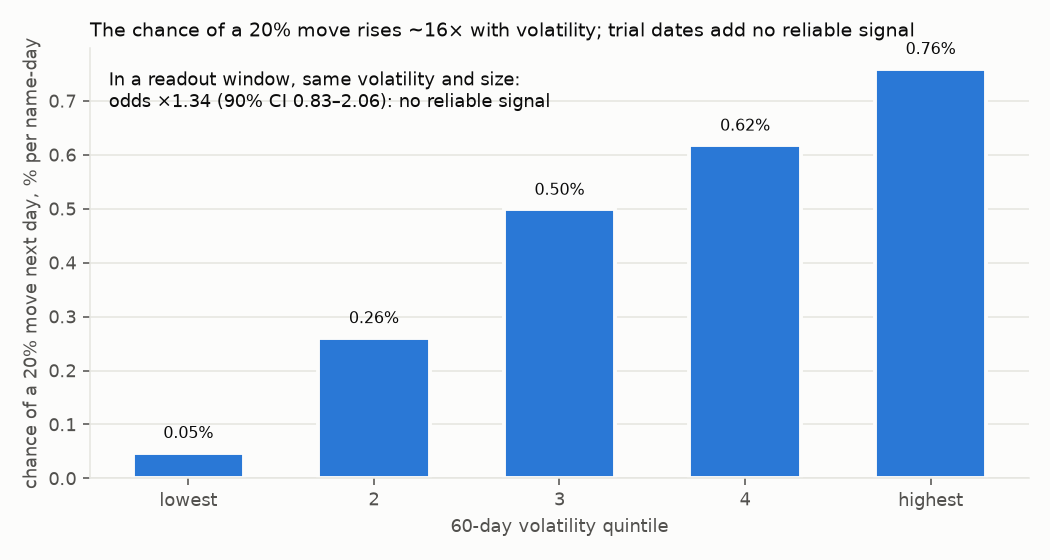
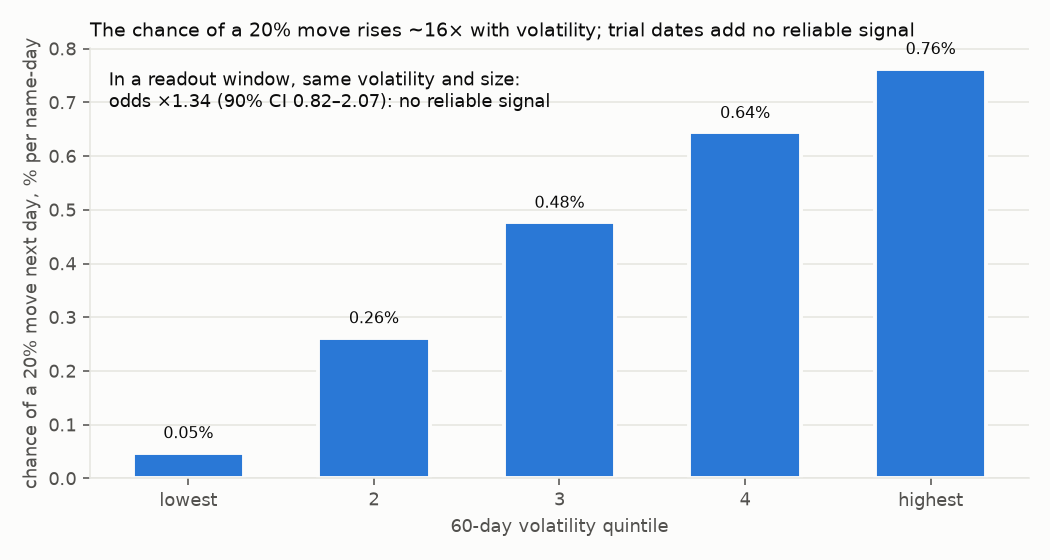
sector forward test: design rev 4 after counter-agent round 2
Round 2 (17 agents): 20/22 round-1 items confirmed addressed, 2 now
completed. Applied: BUILD drops the observed-edge >= DELTA leg (it halved
power to ~49%); one 16:00 New York as-of cutoff in gate and protocol (no
after-hours catalyst look-ahead); spot-check pass/fail (any failure = no
vintage = no gate); K fixed before any gate statistic; multiplicity rule
for several sources; B1x/B2/universe fully specified; R1/R2/H1 defined;
panel de-cluster window off-by-one fixed (OR 1.34, CI 0.82-2.07); H1 vs
jump-robust volatility computed (no edge at any K); desk-use question P1.

Claude-Session: https://claude.ai/code/session_018pBh7Pbpx6hXZasdnfmtby

diff --git a/genomics-alpha-tracker/backend/research/sector_forward/calibrate2.py b/genomics-alpha-tracker/backend/research/sector_forward/calibrate2.py
@@ -162,7 +162,7 @@ def main() -> None:
                 continue
             last_idx = i
             # name-days whose next day falls in (event, event + 10 trading days] leave the panel
-            lo, hi = i, min(len(bd) - 1, i + DECLUSTER - 1)
+            lo, hi = i + 1, min(len(bd) - 1, i + DECLUSTER)   # next day in (event, event + 10]
             if lo < len(bd):
                 quiet[s].append((bd[lo], bd[hi]))
     ev_all = {(m["symbol"], m["prior_date"]) for m in gm}
@@ -213,6 +213,8 @@ def main() -> None:
         names = ("R1", "R2", "B1", "B1x", "H1")
         hits = {k: defaultdict(int) for k in KS}
         pair = {k: [0, 0, 0] for k in KS}
+        pairx = {k: [0, 0, 0] for k in KS}   # H1 vs B1x
+        big_in_r1 = [0, 0]                    # R1 top-25 slots held by names >= $10B
         rnd = {k: 0.0 for k in KS}
         split = {"recent": defaultdict(int), "fresh": defaultdict(int)}
         n_split = {"recent": 0, "fresh": 0}
@@ -234,6 +236,9 @@ def main() -> None:
                 "H1": sorted(u, key=lambda r: (not r["ro"], -r["vol"])),
             }
             rk = {nm: {r["s"]: i + 1 for i, r in enumerate(lst)} for nm, lst in order.items()}
+            top = order["R1"][:25]
+            big_in_r1[0] += sum(r["cap"] >= BIG for r in top)
+            big_in_r1[1] += len(top)
             for e in evs:
                 n += 1
                 grp = "recent" if e["recent"] else "fresh"
@@ -249,7 +254,12 @@ def main() -> None:
                     pair[k][0] += a and not b
                     pair[k][1] += b and not a
                     pair[k][2] += a and b
-        out = {"events": n, "events_per_month": round(n / 12, 2)}
+                    bx = rk["B1x"][e["s"]] <= k
+                    pairx[k][0] += a and not bx
+                    pairx[k][1] += bx and not a
+                    pairx[k][2] += a and bx
+        out = {"events": n, "events_per_month": round(n / 12, 2),
+               "R1_top25_share_over_10B_on_event_days": round(big_in_r1[0] / max(1, big_in_r1[1]), 3)}
         for k in KS:
             b, c, both = pair[k]
             blk = {nm: round(hits[k][nm] / n, 3) for nm in names}
@@ -261,6 +271,12 @@ def main() -> None:
                 hb, hc = half_edge(b / n, c / n)
                 blk["power_half_edge"] = {f"{mo}mo": round(power(hb, hc, round(n / 12 * mo)), 3) for mo in (12, 24, 60)}
                 blk["months_to_80pct_power_half_edge"] = months_to_power(hb, hc, n / 12)
+            bx_b, bx_c, _ = pairx[k]
+            blk["H1_only_vs_B1x_only_both"] = pairx[k]
+            blk["sign_test_p_H1_over_B1x"] = round(sign_p(bx_b, bx_c), 4)
+            if bx_b > bx_c:
+                hb, hc = half_edge(bx_b / n, bx_c / n)
+                blk["months_to_80pct_power_half_edge_vs_B1x"] = months_to_power(hb, hc, n / 12)
             out[str(k)] = blk
         out["top25_by_recent_20pct_move"] = {g: {"events": n_split[g], **{nm: round(split[g][nm] / max(1, n_split[g]), 3) for nm in names},
                                                  "random": round(rnd_split[g] / max(1, n_split[g]), 3)} for g in ("recent", "fresh")}

diff --git a/genomics-alpha-tracker/docs/DESIGN_SECTOR_FORWARD_TEST.md b/genomics-alpha-tracker/docs/DESIGN_SECTOR_FORWARD_TEST.md
@@ -1,11 +1,11 @@
 # Design + pre-registration: forward test of a ranked genomics screen
 
-_Status: DESIGN, revision 3 (after calibration and one counter-agent round).
+_Status: DESIGN, revision 4 (after calibration and two counter-agent rounds).
 **Recommendation: do not run a forward test now.** On last year's data the
 trial-date rankings lost to plain volatility across all names. In small and
 mid caps they did no better than a volatility measure that ignores 20%
-days. The best hybrid's edge would need about 16 years of forward data to
-confirm. The protocol below is complete. It runs only if a better catalyst
+days. Against volatility, the best hybrid's edge would need about 16 years
+of forward data to confirm; against jump-robust volatility it has none. The protocol below is complete. It runs only if a better catalyst
 source passes the gate first (P1). No production code until Casey approves
 this document._
 
@@ -16,7 +16,8 @@ this document._
 2. **The gate.** A catalyst source with FDA decision (PDUFA) dates and
    company-guided readout timing, and with point-in-time history, must pass
    a retrospective check first. The check takes days, not months, and is
-   frozen below.
+   frozen below. It takes days if the source has vintage history; without
+   it there is no gate.
 3. **No-test option.** A reference Sector list of the genomics names, with
    no ranking claim (scope below). It needs no test, because no decision
    depends on it beating anything.
@@ -40,6 +41,22 @@ this document._
   - **B1x:** 60-day volatility excluding days with a move of 20% or more
     (jump-robust).
   - **Random:** K divided by the universe size.
+- **Rankings tested:**
+  - **R1:** days to the nearest completion date on or after P among own
+    phase 2/3 trials with an active status, nearest first.
+  - **R2:** names with an own phase 2/3 trial (active or COMPLETED) whose
+    completion falls in [P-120d, P+30d] come first; phase 3 before phase
+    2, then nearest.
+  - **H1:** names in that readout window first, each group ordered by B1.
+  
+  Trial data are as of the Monday on or before P, with the 12-day lag. The
+  gate's window ([P-7d, P+30d], sourced catalysts) and its ordering (by
+  B1x) differ from these on purpose.
+- **De-clustering in the panel:** the 10-trading-day window runs from the
+  last COUNTED event. Anchors are the name's non-M&A, non-artifact
+  genomics-labelled 20% moves. Name-days whose next trading day falls
+  within the 10 trading days after a counted event leave the odds-ratio
+  panel.
 
 | top-K hit rate, de-clustered | R1 trial date | R2 readout window | H1 hybrid | B1 volatility | **B1x jump-robust** | random |
 |---|---|---|---|---|---|---|
@@ -53,7 +70,7 @@ this document._
 1. **Across all names, trial dates lose to random.** Big pharma always has
    a trial completing within days and almost never moves 20%, so it fills
    the top of any trial-date list. Of R1's top 25, 61% are names over
-   $10B (the robustness reviewer's count).
+   $10B (`calibrate2.py`, all-cap event days).
 2. **Under $10B, trial dates only match volatility, and B1x beats them
    all.**
    - **Hybrid H1 vs B1, by list length:**
@@ -64,6 +81,12 @@ this document._
      
      The top-25 edge is the only positive one, and top 25 was looked at
      after check 1.
+   - **Hybrid H1 vs B1x:** H1 trails at every list length:
+     - top 10: 10 vs 19;
+     - top 25: 14 vs 16 (p = 0.71);
+     - top 40: 6 vs 9.
+     
+     There is no edge to power.
    - **Power:** at half the top-25 edge and 7.5 events a month, a forward
      test has 11% power after 12 months, 19% after two years and 38% after
      five. 80% power needs 189 months, about 16 years (exact sign test,
@@ -71,7 +94,7 @@ this document._
 3. **The readout window carries no reliable signal once volatility and
    size are known.**
    - Mantel-Haenszel odds ratio of a next-day 20% move inside a readout
-     window: **1.34** (90% CI 0.83-2.06), over 21,046 de-clustered
+     window: **1.34** (90% CI 0.82-2.07), over 20,968 de-clustered
      name-days. Under $10B it is 1.43 (0.90-2.11). Without de-clustering it
      is 1.20 (0.72-1.83).
    - Strata are volatility quintile by cap tercile, with the interval from a
@@ -84,7 +107,8 @@ this document._
      P.
    - 18 events come from 10 names with no own phase 2/3 trial: tools and
      diagnostics companies, plus phase-1 companies such as Sana and CAMP4.
-   - 5 events come from 4 names whose trials were all past.
+   - 5 events come from 4 names with own trials but no active trial with
+     a dated upcoming completion.
 5. **Plain volatility partly re-surfaces recent movers.** Under $10B at top
    25:
    - On 16 events whose name had moved 20% in the prior 60 trading days, B1
@@ -126,8 +150,9 @@ random.
   own studies, beyond the 60-per-name history cap, use their current
   record. They sit in 12 large caps (MRK, AZN, BMY, NVS, PFE, JNJ, SNY, GSK,
   LLY, REGN, AMGN, GILD) and MRNA, plus 1 each in AUTL, BNTX, CRSP, IMTX, LH
-  and RCKT. The under-$10B analysis is therefore close to fully point in
-  time; the all-cap one is not.
+  and RCKT. MRNA was under $10B and non-core on 22 name-days, so its 21
+  current-record studies touch that panel. The under-$10B analysis is
+  otherwise close to fully point in time; the all-cap one is not.
 - **(c) Stale trial data.** The 12-day lag is the 95th percentile of
   first-post minus version-0 gaps, applied to every version. A live
   snapshot would see fresher records. That biases the calibration against
@@ -141,21 +166,34 @@ random.
 - **(f) Different definition in the first pass.** `calibrate.py` was not
   de-clustered. `calibration2.json` carries both versions, with the
   de-clustered one primary.
+- **(g) Reviewer-only figure.** The robustness reviewer's 27 alternatives
+  exist only in its scratch scripts (the session scratchpad,
+  `review_cal/`). They are cited, not reproduced here.
 
 ## The gate (frozen now)
 
 Run the forward test only if a better catalyst source passes all of the
 following on the past year (2025-10-01 to 2026-09-30).
 
-**Point in time, or no gate.** Each catalyst record must carry a first-seen
-or as-of timestamp, from vendor history or archived snapshots. On day P,
-only catalyst dates known by P's close count. Later revisions are
-invisible, so a date first shown on P+1 does not count on P. Records
-without provenance count as no catalyst. Before any statistic is computed,
-20 randomly drawn sourced catalysts (seed 20261006) are checked by hand for
-point-in-time correctness. If the source has no vintage history, the gate
-cannot run retrospectively. It then becomes a three-month forward logging
-period of the source, followed by this same check.
+**Point in time, or no gate.**
+- Each catalyst record must carry a first-seen or as-of timestamp, from
+  vendor history or archived snapshots.
+- On day P, only records whose as-of timestamp is at or before **16:00
+  America/New_York on P** count. That is P's close, the same cutoff in the
+  gate and in the protocol. Later revisions are invisible, and records
+  without provenance count as no catalyst.
+- **Spot-check, frozen.** The sample is `random.Random(20261006).sample`
+  of 20 records, sorted by vendor record ID, drawn from all sourced records
+  with an as-of date in the gate year. Two reviewers check each record
+  against an archived snapshot. ANY failure means the source is treated as
+  having no vintage history. The 20 IDs and the verdicts are logged here.
+- **No vintage history means no gate and no forward test.** The data
+  cannot show what was known on each day, and a short logging period
+  would yield too few events to pass condition 1.
+- **More than one source.** Every source evaluated is logged here with its
+  gate result. If m sources are evaluated, condition 1 uses the lower
+  bound of a (1 - 0.10/m) interval, and the first source declared is
+  primary.
 
 **Guided timing, frozen mapping.**
 
@@ -177,15 +215,22 @@ not cover count as unexposed.
 - **Events:** de-clustered, M&A excluded, cap under $10B on P.
 - **Odds ratio:** the Mantel-Haenszel odds ratio of exposure on the
   de-clustered panel, strata and bootstrap as in check 3, seed 20261006.
-- **H1′:** exposed names first, each group ordered by B1x.
+- **H1′:** exposed names first, each group ordered by B1x; ties go to
+  higher 20-day dollar volume.
+- **K:** comes from the P2 answer and is recorded in this document BEFORE
+  any gate statistic is computed. If P2 is unanswered when a source
+  arrives, the gate is not run until it is answered. No default K is
+  chosen after seeing data.
 
 **Pass if ALL of these hold:**
 1. the odds ratio's lower 90% bound is above 1.0;
 2. at the desk's list length K (P2), H1′ beats B1x with an exact one-sided
    sign-test power of at least 80% within 12 months. Power is computed on
    half the in-sample paired edge, with discordance held fixed, at the
-   de-clustered event rate. For reference, at last year's 22% discordance
-   this needs an in-sample edge of roughly 25 percentage points;
+   de-clustered event rate. For reference, with discordance held fixed,
+   80% power within 12 months needs discordance of about 30% or more and an
+   in-sample edge of about 30 percentage points or more. At last year's
+   H1-vs-B1x discordance (33% at top 25) no positive edge was observed;
 3. H1′ is no worse than B1x at the other two list lengths of 10, 25 and 40
    (point estimates).
 
@@ -224,9 +269,9 @@ makes no ranking claim, and nothing is generated from it.
 **Universe on day P:** genomics-labelled names that are listed, not in the
 core, with a prior-day cap of at least $300M and under $10B, evaluated
 daily. A name that crosses $10B leaves the universe while it is above it.
-Names that become eligible during the test (IPOs, a cap crossing $300M)
-are outside the frozen labels; their moves are counted and reported
-separately.
+A labelled name that crosses $300M joins it that day. Only names absent
+from `labels.json` (IPOs, new listings) are outside the frozen labels;
+their moves are counted and reported separately.
 
 ### The instrument: one ranked snapshot per weekday
 
@@ -247,14 +292,20 @@ test as an operational failure.
 
 - **H1′ (R\*).** Names with a sourced catalyst window overlapping
   [P-7d, P+30d] first, then the rest. Each group is ordered by B1x, with
-  ties broken by 20-day dollar volume. Catalyst data are as known at the
-  snapshot.
-- **B1x (the baseline H1′ must beat).** 60-day volatility of daily log
-  returns over the last 61 closes, excluding returns of 20% or more.
-- **B1.** Plain 60-day volatility (secondary).
+  ties broken by 20-day dollar volume. Catalyst data are as known at 16:00
+  America/New_York on P, using the stored as-of timestamps; records after
+  that cutoff are excluded and counted.
+- **B1x (the baseline H1′ must beat).** The sample standard deviation of
+  daily log returns over the last 61 closes through P. Days whose simple
+  close-to-close return is 20% or more in absolute value (rounded to 9
+  decimals) are excluded. Fewer than 20 remaining returns gives B1x = 0,
+  ranked last.
+- **B1.** The same, without the exclusion (secondary).
 - **B2.** The live Discovery queue in candidate-score order, as the
   Discovery tab shows it. It is logged in the snapshot before the sweep's
-  upserts of that day (secondary).
+  upserts of that day and restricted to universe names. A universe name not
+  in the queue is unranked, so its event is a miss, and the list is not
+  padded (secondary).
 - **Random.** K divided by the universe size.
 
 ### Events (the outcome)
@@ -268,7 +319,8 @@ These are measured after the fact from FMP dividend-adjusted bars:
 - M&A target days are excluded, decided by two blind reviewers from filings
   and headlines with a third on disagreement (the sector-tier prompt);
 - events are de-clustered: a name's further 20% moves within the next 10
-  of its trading days are not counted. Sector-wide days are reported.
+  of its trading days are not counted. The window runs from the last
+  counted event. Sector-wide days are reported.
 
 ### Metric and decision rule (frozen; formulas fixed now)
 
@@ -277,8 +329,12 @@ the top K on P's snapshot. It is compared paired between H1′ and B1x with
 a one-sided exact sign test on the discordant events, alpha 0.05.
 
 **Formulas fixed now:**
-- **DELTA** is half the gated in-sample edge, in percentage points.
-- **N_min** is the event count at which the gate's power reaches 80%.
+- **N_min** is the event count at which the gate's exact sign-test power
+  reaches 80%, on half the in-sample edge with discordance held fixed.
+- There is no separate observed-edge threshold. Requiring the observed
+  edge to reach the assumed edge halves the power, to about 49% (round-2
+  finding). A significant one-sided sign test already means a positive
+  edge.
 - **The end date** is T0 plus the months the gate's power calculation needs
   (12 or fewer). There is no extension. Fewer than N_min events at the end
   date makes the result INCONCLUSIVE.
@@ -286,10 +342,9 @@ a one-sided exact sign test on the discordant events, alpha 0.05.
 **BUILD** a ranked screen (the top K with each name's catalyst evidence;
 no calls generated) only if ALL of these hold:
 1. at least N_min events;
-2. hit@K(H1′) minus hit@K(B1x) is at least DELTA;
-3. the sign test gives p < 0.05;
-4. hit@K(H1′) is above random;
-5. hit@K(H1′) is at least hit@K(B2).
+2. the sign test of H1′ over B1x gives p < 0.05;
+3. hit@K(H1′) is above random;
+4. hit@K(H1′) is at least hit@K(B2).
 
 Otherwise the result is DO NOT BUILD, with the reason. There are no interim
 looks at the metric; monitoring is operational only.
@@ -332,7 +387,7 @@ looks at the metric; monitoring is operational only.
 | P | question | what it moves | first asked | status | expires |
 |---|---|---|---|---|---|
 | P1 | Is there a catalyst source with PDUFA dates and guided readout timing AND point-in-time history (vendor vintages or archived snapshots), one you have or one you would pay for? | whether the gate runs at all | 2026-10-06 | open | 2026-12-05 |
-| P2 | What the desk would do with a ranked screen: a morning glance (top 10) or position preparation (top 25, 5-day lead time) | the list length K and the gating metric, needed before the gate | 2026-10-06 (rev 1, then P3) | open; promoted 2026-10-06 (rev 3) | 2026-12-05 |
+| P1 | What the desk would do with a ranked screen: a morning glance (top 10) or position preparation (top 25, 5-day lead time) | the list length K and the gating metric; the gate cannot run without it | 2026-10-06 (rev 1, then P3) | open; promoted to P2 (rev 3), then P1 (rev 4) | 2026-12-05 |
 | P2 | Build the reference Sector list (no test needed)? | one dashboard view | 2026-10-06 | open | 2026-12-05 |
 | P3 | Where the snapshot runs (A or B) | the instrument | 2026-10-06 (rev 1) | deferred to the gate (rev 2) | — |
 | — | The end date | — | 2026-10-06 (rev 1) | withdrawn (rev 3): now a formula | — |
@@ -387,3 +442,33 @@ design does not depend on it.
     list's scope; the order of declaration.
 - **B1x** (jump-robust volatility) came from the robustness review. It beat
   every list at every K, and it is now the baseline H1′ must beat.
+
+**Round 2 (2026-10-06, 17 agents).**
+- **Round-1 findings:** 20 of 22 confirmed fully addressed, 2 partly. Both
+  are now completed (the spot-check rule and the after-close cutoff).
+- **New findings, confirmed and applied in revision 4:**
+  - SERIOUS: the BUILD rule's extra "observed edge at least DELTA" halved
+    the real power, to about 49%. It is dropped, and the sign test carries
+    the bar.
+  - SERIOUS: the forward snapshot could see after-hours catalyst updates
+    that drive the next day's move. There is now one 16:00 New York cutoff
+    in the gate and the protocol.
+  - SERIOUS: the point-in-time spot-check had no pass/fail rule. Any
+    failure now means no vintage, and no vintage means no gate.
+  - MINOR:
+    - K is now fixed before any gate statistic, with no default if P2 is
+      unanswered.
+    - The impossible "25 pp at 22% discordance" reference is replaced.
+    - The no-vintage fallback is removed.
+    - The panel window was off by one. It is fixed and re-run, and the
+      odds ratio is unchanged at 1.34.
+    - B1x, B2 and the universe are now fully specified.
+    - R1, R2 and H1 are defined in the doc again.
+    - The headline power is now also stated against B1x, where H1 has no
+      edge.
+    - A multiplicity rule now covers testing several catalyst sources.
+  - NOTES applied:
+    - the 61% figure is now computed in `calibrate2.py`;
+    - MRNA's under-$10B days are disclosed;
+    - check 4's wording is corrected;
+    - the desk question is now P1.
